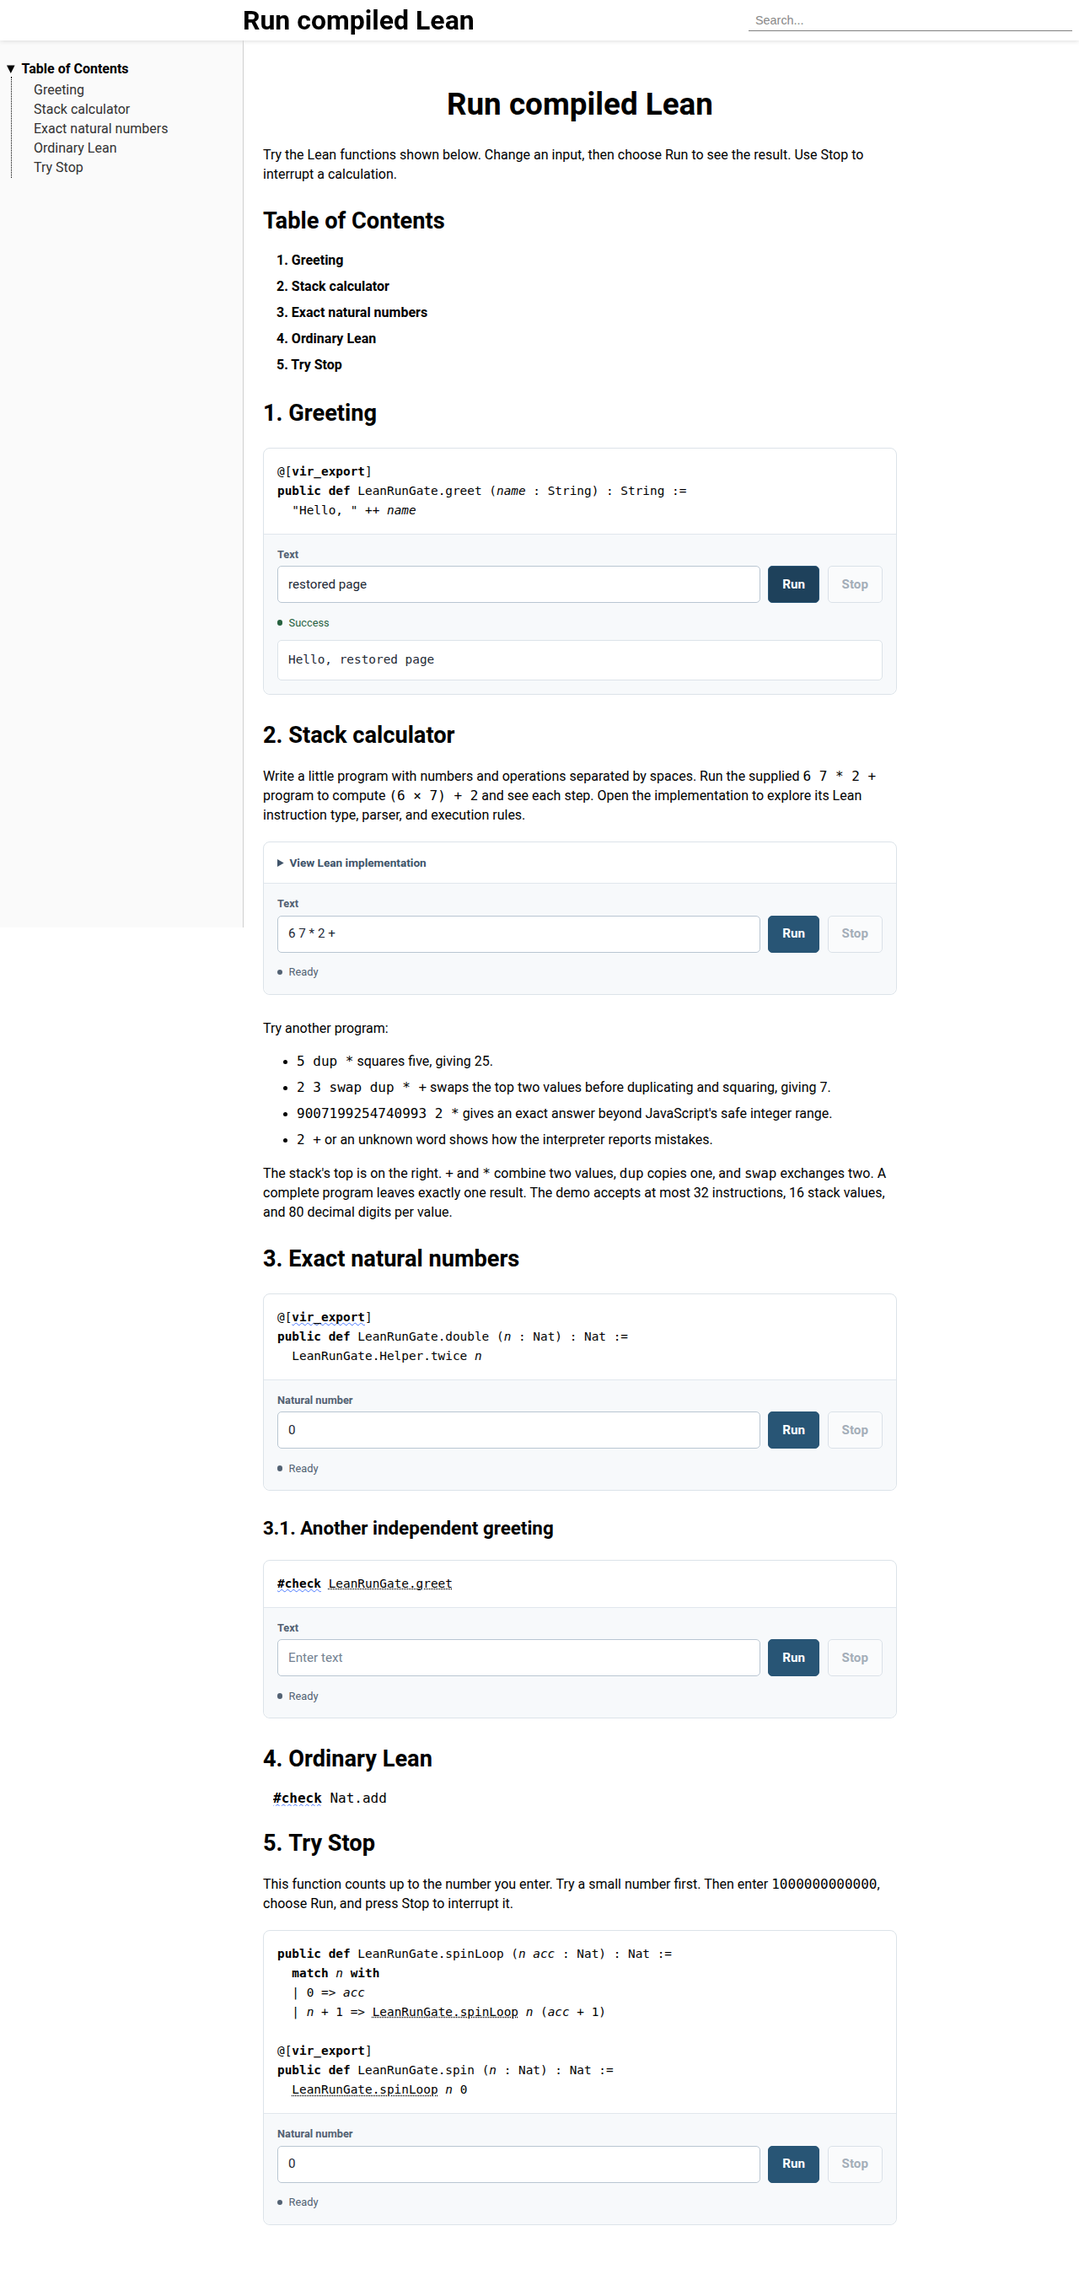
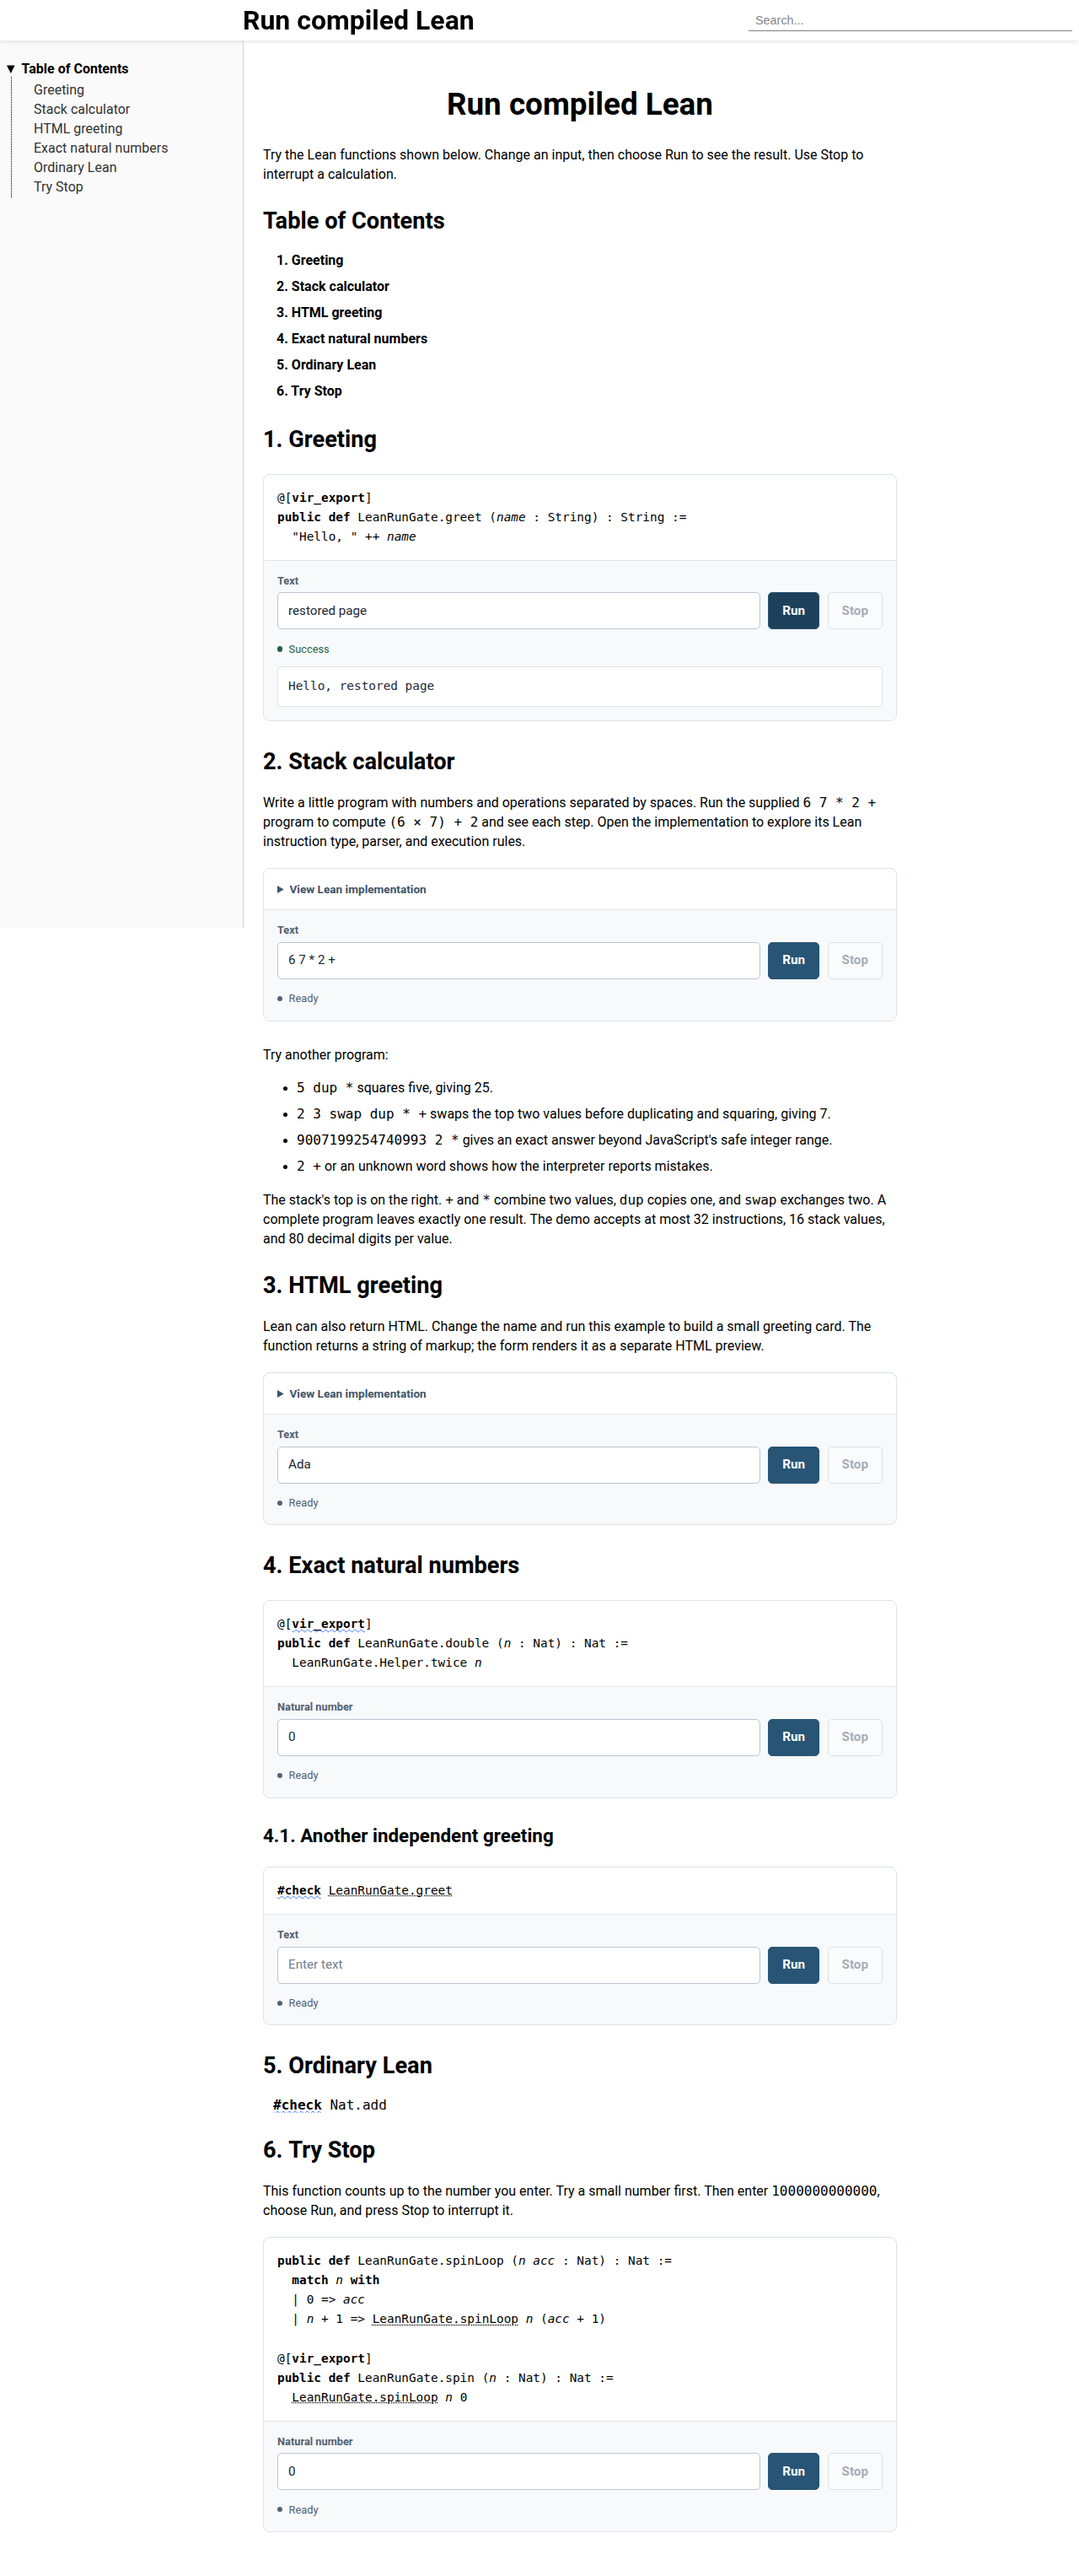
feat: add static HTML previews to Lean Run
This PR adds an explicit output := "html" presentation option for String-returning examples. Render successful markup in a sandboxed iframe with restricted embedded resources; keep ordinary results and runtime errors as text. Clear previews on input edits, loading, Stop and failure.

Add a simple compiled Lean greeting card that escapes reader input and returns styled HTML. Preserve the existing VIR callable interface and compiler-owned expectations. Reject unsupported output modes and HTML presentation for Nat results during author elaboration.

Validate root lake build, root lake test (647 tests plus 10 editor checks), and all 44 prototype acceptance/mutation checks. Cover native/HTML markup agreement, inline styles, escaped input, opaque frame origin, preview cleanup, error recovery, calculator behavior, source disclosure, relocation and invalidation. Inspect desktop/mobile previews and retain screenshots. Package a clean complete site for the internal presentation.

Changelog-label: changelog-feature

diff --git a/web/renderer.js b/web/renderer.js
@@ -10,6 +10,12 @@ addEventListener("pagehide", event => {
   if (!event.persisted) owners.clear();
 });
 let instance = 0;
+function htmlDocument(markup) {
+  return '<!doctype html><html><head><meta charset="utf-8">' +
+    '<meta http-equiv="Content-Security-Policy" content="default-src \'none\'; style-src \'unsafe-inline\'; img-src data:">' +
+    '<style>body{margin:0;font:16px system-ui,sans-serif;color:#1e2936;overflow-wrap:anywhere}</style>' +
+    '</head><body>' + markup + '</body></html>';
+}
 export function enhance(element) {
   if (element.dataset.enhanced) return;
   element.dataset.enhanced = "true";
@@ -21,6 +27,12 @@ export function enhance(element) {
   const stop = form.querySelector(".lean-run-stop");
   const status = element.querySelector(".lean-run-status");
   const output = element.querySelector(".lean-run-output");
+  const preview = element.querySelector(".lean-run-preview");
+  const clearPreview = () => {
+    if (!preview) return;
+    preview.hidden = true;
+    preview.removeAttribute("srcdoc");
+  };
   let busy = false;
   const host = new ExperimentHost(description, (state, value = "") => {
     element.dataset.state = state;
@@ -29,6 +41,12 @@ export function enhance(element) {
     stop.disabled = !busy;
     status.textContent = state === "idle" ? "Ready" : state[0].toUpperCase() + state.slice(1);
     output.textContent = value;
+    clearPreview();
+    if (state === "success" && preview) {
+      output.textContent = "";
+      preview.srcdoc = htmlDocument(value);
+      preview.hidden = false;
+    }
   });
   owners.add(host);
   run.disabled = false;
@@ -37,6 +55,7 @@ export function enhance(element) {
     if (busy) return;
     try { validateInput(description.shape, input.value); }
     catch (error) {
+      clearPreview();
       element.dataset.state = "invalid input";
       status.textContent = "Invalid input";
       output.textContent = error.message;

diff --git a/web/lean-run.css b/web/lean-run.css
@@ -164,6 +164,21 @@
   display: none;
 }
 
+.lean-run .lean-run-preview {
+  display: block;
+  box-sizing: border-box;
+  width: 100%;
+  height: 190px;
+  margin-top: .7rem;
+  border: 1px solid #dce3e9;
+  border-radius: 5px;
+  background: white;
+}
+
+.lean-run .lean-run-preview[hidden] {
+  display: none;
+}
+
 .lean-run noscript {
   display: block;
   margin-top: .75rem;

diff --git a/tests/acceptance.py b/tests/acceptance.py
@@ -42,7 +42,7 @@ plan = json.loads((site/'html-multi/lean-run/publication.json').read_text())
 assert plan == json.loads((site/'html-single/lean-run/publication.json').read_text())
 assert plan == json.loads((OUTPUT/'native-only/html-multi/lean-run/publication.json').read_text())
 published = plan['programs']['LeanRunGate.Chapter']
-for declaration, type_name in [('greet', 'String'), ('Stack.run', 'String'), ('double', 'Nat'), ('spin', 'Nat')]:
+for declaration, type_name in [('greet', 'String'), ('Stack.run', 'String'), ('htmlGreeting', 'String'), ('double', 'Nat'), ('spin', 'Nat')]:
     contract = published['LeanRunGate.'+declaration]['expectedExport']
     assert contract['declaration'] == 'LeanRunGate.'+declaration
     assert contract['signature']['effect'] == 'pure'
@@ -115,6 +115,7 @@ with sync_playwright() as p:
     other = form_for('LeanRunGate.greet', 1)
     spin = form_for('LeanRunGate.spin')
     calculator = form_for('LeanRunGate.Stack.run')
+    html_form = form_for('LeanRunGate.htmlGreeting')
     assert calculator.locator('details').get_attribute('open') is None
     calculator.locator('summary').press('Enter')
     assert calculator.locator('details').get_attribute('open') is not None
@@ -161,6 +162,41 @@ with sync_playwright() as p:
         assert output == oracle('stack', value)
         assert expected in output, output
     record('stack calculator bounds instructions, stack depth and arithmetic growth')
+
+    preview = html_form.locator('iframe')
+    assert preview.is_hidden() and preview.get_attribute('sandbox') == ''
+    for name in ['Ada', '', 'Unicode λ 🌍', '<img src=x onerror=alert(1)>', '& <script>alert(1)</script>']:
+        assert call(html_form, name) == ''
+        markup = oracle('htmlGreeting', name)
+        assert markup in preview.get_attribute('srcdoc')
+        heading = html_form.frame_locator('iframe').locator('h2')
+        assert heading.inner_text() == 'Hello, '+(name or 'friend')+'!'
+        assert html_form.frame_locator('iframe').locator('img,script').count() == 0
+        assert heading.evaluate('e => getComputedStyle(e).color') == 'rgb(40, 85, 117)'
+    record('HTML greeting matches native markup and renders inline styles with escaped reader input')
+    assert html_form.evaluate('''e => {
+        try { void e.querySelector('iframe').contentWindow.document; return false; }
+        catch (error) { return error.name === 'SecurityError'; }
+    }''')
+    assert "default-src 'none'" in preview.get_attribute('srcdoc')
+    html_form.locator('input').fill('changed')
+    assert preview.is_hidden() and preview.get_attribute('srcdoc') is None
+    assert call(html_form,'after edit') == ''
+    assert html_form.frame_locator('iframe').locator('h2').inner_text() == 'Hello, after edit!'
+    record('HTML preview is isolated and cleared on input changes before a fresh invocation')
+
+    page.reload()
+    page.wait_for_selector('.lean-run[data-enhanced]')
+    html_form = form_for('LeanRunGate.htmlGreeting')
+    page.route('**/program.irpkg', lambda route: route.fulfill(status=404, body='missing'))
+    html_form.locator('[type=submit]').click()
+    page.wait_for_function('e => e.dataset.state === "failed"', arg=html_form.element_handle(), timeout=20000)
+    assert html_form.locator('iframe').is_hidden()
+    assert '404' in html_form.locator('.lean-run-output').text_content()
+    page.unroute('**/program.irpkg')
+    assert call(html_form,'recovered') == ''
+    assert html_form.frame_locator('iframe').locator('h2').inner_text() == 'Hello, recovered!'
+    record('HTML resource failure stays plain text and explicit retry restores the preview')
 
     # Change only the independently published expectation, keeping the real program
     # bytes and resource identity intact. VIR must reject before invoking Lean.
@@ -212,7 +248,7 @@ with sync_playwright() as p:
     record('native/browser exact Nat oracle: zero, edited, large integers')
     assert call(other,'independent') == oracle('greet','independent')
     assert greeting.locator('.lean-run-output').text_content() == oracle('greet','<img src=x onerror=alert(1)>')
-    assert len(set(page.locator('.lean-run').evaluate_all('(es) => es.map(e => e.dataset.instance)'))) == 5
+    assert len(set(page.locator('.lean-run').evaluate_all('(es) => es.map(e => e.dataset.instance)'))) == 6
     record('independent repeated placements')
     for value in ['-1','1.5','abc','',' 1','1e3','9'*257]:
         numeric.locator('input').fill(value)
@@ -295,7 +331,7 @@ with sync_playwright() as p:
     assert 'public def LeanRunGate.greet' in plain.locator('body').inner_text()
     assert '#check Nat.add' in plain.locator('body').inner_text()
     assert plain.locator('.lean-run [type=submit]').first.is_disabled()
-    assert plain.locator('.lean-run noscript').count() == 5
+    assert plain.locator('.lean-run noscript').count() == 6
     assert all('Enable JavaScript' in text for text in plain.locator('.lean-run noscript').all_text_contents())
     plain_calculator = plain.locator('.lean-run[data-experiment*="LeanRunGate.Stack.run"]')
     plain_calculator.locator('summary').click()

diff --git a/README.md b/README.md
@@ -18,6 +18,10 @@ Open <http://127.0.0.1:8794/Greeting/>. Single-page output is in `_out/html-sing
 
 For the longer internal-demo example, open <http://127.0.0.1:8794/Stack-calculator/>. It implements a small typed instruction language, parser, stack evaluator, and execution trace in the displayed Lean code. Run the supplied `6 7 * 2 +` program, then try `5 dup *`, `2 3 swap dup * +`, or `9007199254740993 2 *`. An empty program, unknown instruction, or stack underflow returns a readable explanation. The demo bounds programs to 32 instructions, stacks to 16 values, and numbers to 80 decimal digits, including intermediate results.
 
+A clean complete copy for sharing is available at `_out/lean-run-demo.zip`. Unpack it, then run `python3 -m http.server 8794 --directory lean-run-demo` and open `/Stack-calculator/` or `/HTML-greeting/`. The recipient needs no Lean installation.
+
+Open <http://127.0.0.1:8794/HTML-greeting/> for a small HTML example. Its Lean function escapes the name and returns markup for a styled greeting card. The usual `String → String` interface is checked, and `(output := "html")` selects the HTML preview explicitly.
+
 The optional package's test driver uses the repository's Python/Playwright browser tooling. Install `uv` and a Chromium browser first. Tests use installed `google-chrome` when available, otherwise Playwright's installed Chromium:
 
 ```sh
@@ -57,6 +61,8 @@ public def Demo.greet (name : String) : String :=
 The optional `(input := "...")` argument supplies the form's initial text, without running it on page load. For example, the stack calculator uses `(input := "6 7 * 2 +")`. Readers can edit or clear it normally, and ordinary input validation still applies when they run it.
 
 For a longer example, `+collapsed` puts its source in a native expandable “View Lean implementation” panel. It starts closed so the input is easy to reach; readers can open it with a mouse or keyboard, including without JavaScript. The source remains fully present in HTML and TeX, and all declarations are still elaborated and retained normally.
+
+Output defaults to plain text. `(output := "html")` requires a String result and displays the markup in an isolated, sandboxed frame. This preview supports static HTML, inline CSS, and data images; scripts and external embedded resources are disabled. A function interpolating reader input into markup should escape it for the chosen context, as the greeting does for text. Input edits, Stop, pending calls and failures clear the previous preview. Runtime errors remain plain text, and the result-size limit still applies. The frame has a fixed height with scrolling for larger documents.
 
 `leanRun` uses ordinary command elaboration and the shared highlighted-block constructor, retaining source locations, hovers, and example links. The only core Verso change exposes `toHighlightedLeanBlock` for this reuse. The extension support lives in this optional package because Verso's package-wide native precompilation attempts to compile VIR's browser extern symbols as C when VIR is added directly to that package.
 
@@ -107,6 +113,6 @@ Forms group the highlighted source above a quiet input/result area, with aligned
 
 ## Retained evidence
 
-`evidence/results.json` records the 39 final acceptance checks and exact publication identities; `evidence/manual.png` is a browser capture. `evidence/worker-gate.json` retains the independent public API create/call/dispose/recreate gate, and `evidence/validation.txt` records root regression results. The browser checks cover edited inputs, Unicode, exact integers above JavaScript's safe range, repeated placements, real long-running interruption, pending-load cancellation, ignored stale outcomes, missing resources with explicit recovery, root/nested copied publication, disabled JavaScript, TeX, body/helper invalidation, restored identity, compiler-signature publication in both layouts and native-only generation, rejection of mismatched or missing expectations before invocation, duplicate/missing/ambiguous registration, and carrier relocation across source/build roots with unchanged publication. Screenshots supplement those execution checks. `evidence/design-results.json` records the 30 non-mutation interaction checks repeated after the visual refinement; `design-desktop.png`, `design-mobile.png`, and the other `design-*.png` captures show the final layout. Chromium reviews cover 1280px, 390px, and 320px widths, keyboard submission/focus, long exact-Nat wrapping, narrow-screen search, and the JavaScript-disabled fallback. The 39-check campaign in `results.json` additionally covers the calculator preset/trace, arithmetic, errors, bounds, and source disclosure. `calculator-*.png` captures the longer example with its source panel closed and open.
+`evidence/results.json` records the 44 final acceptance checks and exact publication identities; `evidence/manual.png` is a browser capture. `evidence/worker-gate.json` retains the independent public API create/call/dispose/recreate gate, and `evidence/validation.txt` records root regression results. The browser checks cover edited inputs, Unicode, exact integers above JavaScript's safe range, repeated placements, real long-running interruption, pending-load cancellation, ignored stale outcomes, missing resources with explicit recovery, root/nested copied publication, disabled JavaScript, TeX, body/helper invalidation, restored identity, compiler-signature publication in both layouts and native-only generation, rejection of mismatched or missing expectations before invocation, duplicate/missing/ambiguous registration, and carrier relocation across source/build roots with unchanged publication. Screenshots supplement those execution checks. `evidence/design-results.json` records the 30 non-mutation interaction checks repeated after the visual refinement; `design-desktop.png`, `design-mobile.png`, and the other `design-*.png` captures show the final layout. Chromium reviews cover 1280px, 390px, and 320px widths, keyboard submission/focus, long exact-Nat wrapping, narrow-screen search, and the JavaScript-disabled fallback. The 44-check campaign in `results.json` additionally covers the calculator preset/trace, arithmetic, errors, bounds, source disclosure, HTML preview/native markup agreement, escaped input, isolation, cleanup, and failure recovery. `calculator-*.png` captures the longer example with its source panel closed and open.
 
 Browser execution is qualified here in Chromium. Firefox, Safari, physical mobile devices, and assistive-technology audits were not exercised. The cached-page lifecycle handler is checked with a persisted `PageTransitionEvent`; actual back-cache restoration across browsers remains unqualified. Porting to current Verso main's Lean 4.35.0-rc3 requires a compatible VIR/runtime release and is not included.
